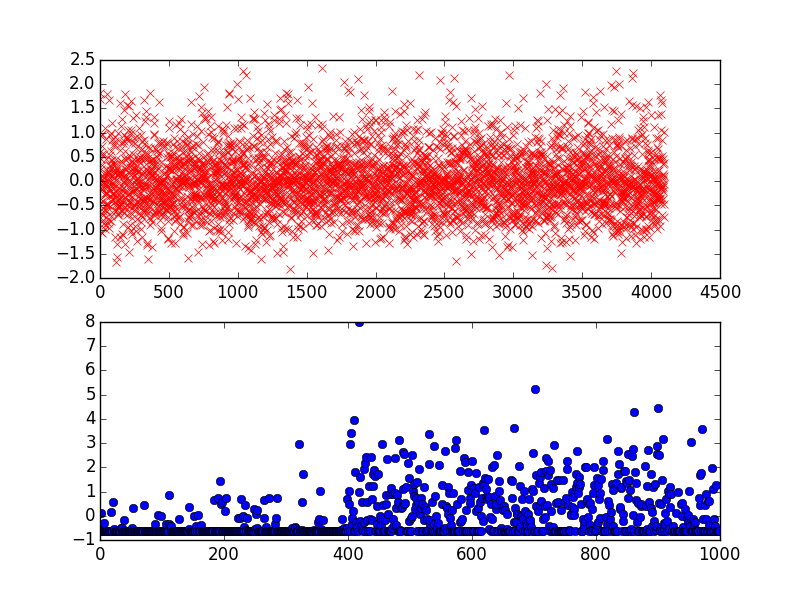
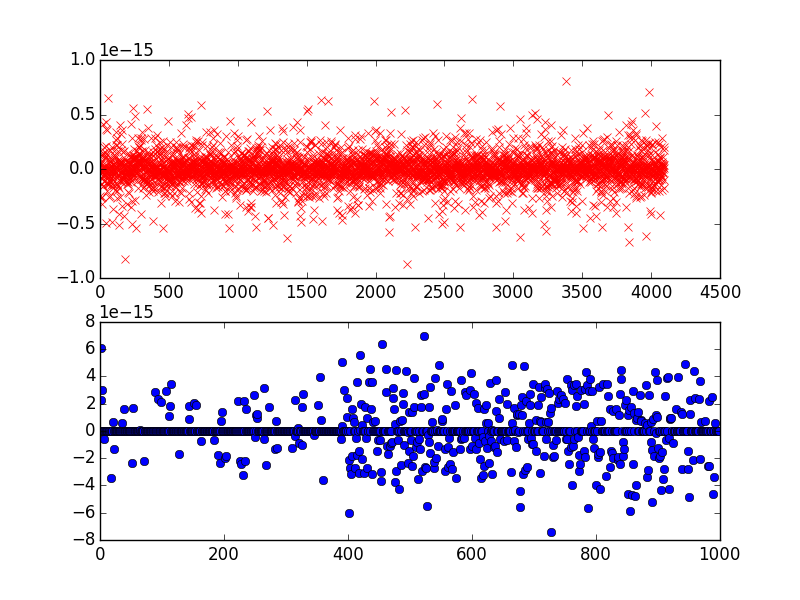
after meeting: rescaling, loss after each update, sqrt(norm)

diff --git a/SGD.py b/SGD.py
@@ -6,6 +6,7 @@ import random
 import time
 #from sklearn.preprocessing import MinMaxScaler
 from sklearn.linear_model import SGDRegressor
+import math
 
 
 
@@ -41,11 +42,11 @@ class SGD:
         
     def loss_max(self, img_data):
         level_preds, _ = self.predictor.get_iep_levels(img_data, [])
-        return (np.max(level_preds) - img_data.y)**2 + self.alpha * np.dot(self.w,self.w)
+        return (np.max(level_preds) - img_data.y)**2 + self.alpha * math.sqrt(np.dot(self.w,self.w))
         
     def loss_mean(self, img_data):
         level_preds, _ = self.predictor.get_iep_levels(img_data, [])
-        return (np.mean(level_preds) - img_data.y)**2 + self.alpha * np.dot(self.w,self.w)
+        return (np.mean(level_preds) - img_data.y)**2 + self.alpha * math.sqrt(np.dot(self.w,self.w))
         
     def predict_mean(self, img_data):
         level_preds, _ = self.predictor.get_iep_levels(img_data, [])
@@ -93,8 +94,20 @@ class SGD:
         return squared_error/len(numbers), error / len(numbers), non_zero_error / n_non_zero#skl_error/len(numbers),, self.eta
         
         
+    def loss_all(self):
+	tra_loss_temp = 0.0
+	te_loss_temp = 0.0
+	for img_nr in self.load.category_train:
+            img_data = Data.Data(self.load, img_nr, self.prune_tree_levels, self.scaler, self.n_features)
+	    tra_loss_temp += self.loss(img_data)
+	for img_nr in self.load.category_val:
+            img_data = Data.Data(self.load, img_nr, self.prune_tree_levels, self.scaler, self.n_features)
+	    te_loss_temp += self.loss(img_data)
+	return tra_loss_temp/len(self.load.category_train), te_loss_temp/len(self.load.category_val)
         
     def learn(self, instances='all', to=-1):
+	train_losses = []
+	test_losses = []
         if instances=='all':
             training_data = self.load.training_numbers
         else:
@@ -118,8 +131,15 @@ class SGD:
             self.sgd.partial_fit(to_fit,[img_data.y])
             if (i_img_nr + 1)%self.batch_size == 0:
                 self.update()
+		tr_loss, te_loss = self.loss_all()
+		train_losses.append(tr_loss)
+		test_losses.append(te_loss)
         if (i_img_nr + 1)%self.batch_size != 0:
             self.update()
+	    tr_loss, te_loss = self.loss_all()
+    	    train_losses.append(tr_loss)
+	    test_losses.append(te_loss)
+	return train_losses, test_losses
         
         
     def update(self):
@@ -136,8 +156,8 @@ class SGD:
         #print level_preds
         ind_max = level_preds.index(max(level_preds))
         upd, _ = self.learner.iep(img_data, [], ind_max)#functions[ind_max]
-        return 2 * (self.predict(img_data) - img_data.y) * upd + self.alpha * self.w, functions
+        return 2 * (self.predict(img_data) - img_data.y) * upd + 2 * self.alpha * self.w, functions
         
     def learn_mean(self, img_data, functions):
         iep_levels, functions = self.learner.get_iep_levels(img_data, functions)
-        return 2 * (self.predict(img_data) - img_data.y) * (np.array(iep_levels).sum() / len(iep_levels)) + self.alpha * self.w, functions
+        return 2 * (self.predict(img_data) - img_data.y) * (np.array(iep_levels).sum() / len(iep_levels)) + 2 * self.alpha * self.w, functions

diff --git a/Experiment1b.py b/Experiment1b.py
@@ -36,11 +36,14 @@ def main():
 	scaler_dennis = load_dennis.get_scaler_category()
 	if scaler_dennis==[]:
 		print "learning scaler"
+		data_to_scale = []
 		scaler_category = StandardScaler()
 		print len(training_data)
-		for i_img_nr, img_nr in enumerate(training_data):
+		shuffle(training_data)
+		for img_nr in training_data[0:100]:
 		     img_data = Data.Data(load_dennis, img_nr, 10, None)
-		     scaler_category.partial_fit(img_data.X)
+		     data_to_scale.extend(img_data.X)
+		scaler_category.fit(data_to_scale)
 		output_dennis.dump_scaler_category(scaler_category)
 		scaler_dennis = scaler_category
             
@@ -59,11 +62,14 @@ def main():
                     print al_i, eta_i, gamma_i
                     for epoch in range(5):
 			print epoch
-                        sgd_dennis.learn('categories', 20)
-			t1,_,_ = sgd_dennis.evaluate('train', 20)
-			t2,_,_ = sgd_dennis.evaluate('val', 20)
-			training_loss.append(t1)
-			validation_loss.append(t2)
+                        tr_l, te_l = sgd_dennis.learn('categories', 20)
+			training_loss.append(tr_l)
+			validation_loss.append(te_l)
+			print training_loss, validation_loss
+			#t1,_,_ = sgd_dennis.evaluate('train', 20)
+			#t2,_,_ = sgd_dennis.evaluate('val', 20)
+			#training_loss.append(t1)
+			#validation_loss.append(t2)
                     #preds_d_p, preds_skl_p, y_d_p = sgd_pascal.evaluate('train',2, True)
                     #preds_d_d, preds_skl_d, y_d_d = sgd_dennis.evaluate('train',50, True)
                     #output_pascal.plot_preds(preds_d_p, preds_skl_p, y_d_p, al_i)
